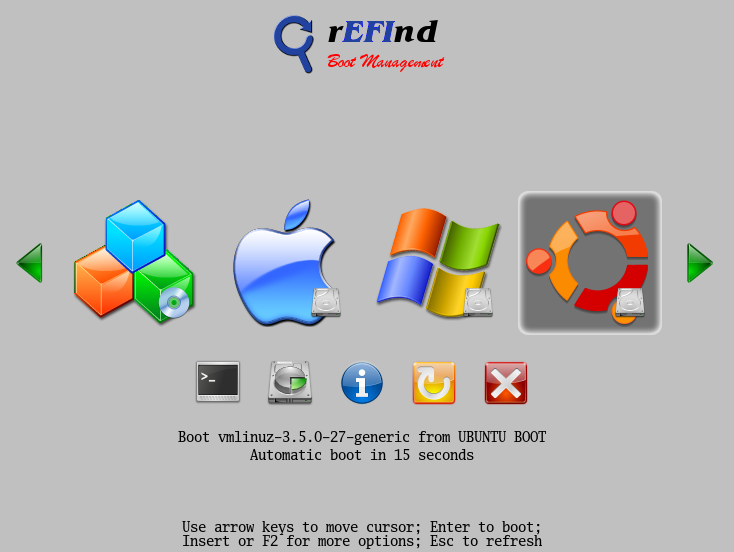
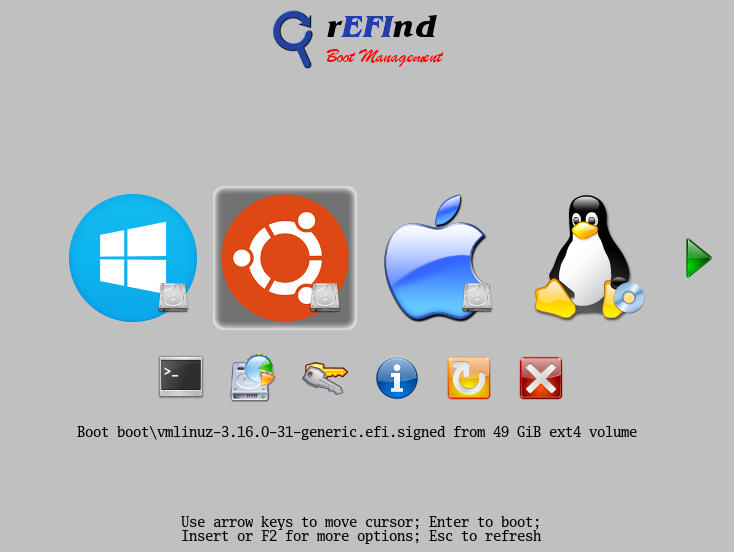
Documentation updates (including two replacement images); removal of pointless (and possibly buggy) definition of SetMem as memset in gptsync.

diff --git a/docs/refind/using.html b/docs/refind/using.html
@@ -15,7 +15,7 @@
 href="mailto:rodsmith@rodsbooks.com">rodsmith@rodsbooks.com</a></p>
 
 <p>Originally written: 3/14/2012; last Web page update:
-2/8/2015, referencing rEFInd 0.8.6</p>
+3/1/2015, referencing rEFInd 0.8.7</p>
 
 
 <p>This Web page is provided free of charge and with no annoying outside ads; however, I did take time to prepare it, and Web hosting does cost money. If you find this Web page useful, please consider making a small donation to help keep this site up and running. Thanks!</p>
@@ -166,17 +166,21 @@ href="mailto:rodsmith@rodsbooks.com">rodsmith@rodsbooks.com</a></p>
     height="552" alt="rEFInd presents a GUI menu for selecting your boot
     OS." border=2 /></center> <br />
 
-<p>If you don't press any key before the timeout (shown below the icons and description line) expires, the default boot loader will launch. This is normally the item that you launched the last time rEFInd ran, but you can adjust the default by editing the configuration file. (In this example, it's the Ubuntu Linux loader, which is further identified by text above the timeout as <i>vmlinuz-3.5.0-27-generic from UBUNTU BOOT</i>.)</p>
+<p>If you don't press a key before the timeout expires, the default boot loader will launch. (The timeout is shown beneath the description line until you press a key&mdash;note that it's absent from the preceding screen shot.) This is normally the item that you launched the last time rEFInd ran, but you can adjust the default by editing the configuration file. (In this example, it's the Ubuntu Linux loader, which is further identified by text as <i>boot\vmlinuz-3.16.0-31-generic.efi.signed from 49 GiB ext4 volume</i>.)</p>
 
-<p>This display is dominated by the central set of OS <i>tags</i> (icons), which in this example includes tags for an unknown boot loader, OS X, Windows, and Ubuntu. All but the first of these are on hard disks, but the unknown boot loader is on an optical disc, as revealed by the small icons (known as <i>badges</i>) in the lower-right corner of the OS icons.</p>
+<p>This display is dominated by the central set of OS <i>tags</i> (icons), which in this example includes tags for Windows, OS X, Ubuntu, and an unknown Linux distribution. All but the last of these are on hard disks, but the unknown Linux boot loader is on an optical disc, as revealed by the small icons (known as <i>badges</i>) in the lower-right corner of the OS icons.</p>
 
-<p>In this example, the Ubuntu tag is selected. You can move the selection left by pressing the left arrow key and right by pressing the right arrow key. If your system has many boot loaders, an arrow icon will appear to the right and/or left of the boot loader list, indicating that the boot loader list will scroll when you move off the edge. (Such arrows are visible to the right and left in the sample screen.) You can scroll the list by one line full of icons by using the Page Up or Page Down keys to move left and right, respectively. Moving past the final selection or using the down arrow key moves the selection to the second row of small tags, which launch ancillary programs or perform special actions. If you've moved the selection cursor to the second row, pressing the up arrow key or scrolling past the left edge of the second row moves the cursor to the top row. In this figure, these five tags are present:</p>
+<p>In this example, the Ubuntu tag is selected. You can move the selection left by pressing the left arrow key and right by pressing the right arrow key. If your system has many boot loaders, an arrow icon will appear to the right and/or left of the boot loader list, indicating that the boot loader list will scroll when you move off the edge. (Such an arrow is visible to the right in the sample screen.) You can scroll the list by one line full of icons by using the Page Up or Page Down keys to move left and right, respectively. Moving past the final selection or using the down arrow key moves the selection to the second row of small tags, which launch ancillary programs or perform special actions. If you've moved the selection cursor to the second row, pressing the up arrow key or scrolling past the left edge of the second row moves the cursor to the top row. In this figure, these six tags are present:</p>
 
 <ul>
 
 <li>Launch the EFI shell</li>
 
-<li>Launch the tool to create a hybrid MBR (<tt>gptsync</tt>)
+<li>Launch the tool to partition a disk (<tt>gptsync</tt> or
+    <tt>gdisk</tt>)</li>
+
+<li>Launch a tool to edit Secure Boot keys (<tt>MokManager</tt>,
+    <tt>HashTool</tt>, or <tt>KeyTool</tt>)
 
 <li>Produce an information page</li>
 
@@ -186,7 +190,7 @@ href="mailto:rodsmith@rodsbooks.com">rodsmith@rodsbooks.com</a></p>
 
 </ul>
 
-<p>By default, the options to display an information page, shutdown the computer, and reboot the computer are present. Options to launch a shell, launch the Apple recovery utility, and launch the Machine Owner Key (MOK) utility will also appear automatically if these utilities are installed. Options to launch the hybrid MBR tool and to exit from rEFInd are not displayed by default; you must edit the configuration file to enable these features, or to disable those that are displayed by default.</p>
+<p>By default, the options to display an information page, shutdown the computer, and reboot the computer are present. Options to launch a shell, launch <tt>gdisk</tt>, launch a memory test utility, launch the Apple recovery utility, launch the Windows recovery utility, and launch a Secure Boot key management utility will also appear automatically if these utilities are installed. The tag to reboot into the firmware appears if your firmware supports this feature. Options to launch the hybrid MBR tool (<tt>gptsync</tt>) and to exit from rEFInd are not displayed by default; you must edit the configuration file to enable these features, or to disable those that are displayed by default if you don't want them.</p>
 
 <p>To launch an OS or utility, you should select its tag and then press the Enter key or the space bar.</p>
 
@@ -194,7 +198,7 @@ href="mailto:rodsmith@rodsbooks.com">rodsmith@rodsbooks.com</a></p>
 
 <p>Ordinarily, rEFInd displays tags for OSes it finds on internal hard disks, external hard disks (including USB flash drives, CF disks, and so on), and optical discs. Sometimes, though, the firmware hasn't had time to fully examine these devices by the time rEFInd starts; or you might only insert or plug in the media after rEFInd appears. In these cases, you can press the Esc key to have rEFInd re-read its configuration file and re-scan your media for boot loaders. This action can take a few seconds to complete, so be patient. You can also use this feature to detect OSes if you launch a shell and use it to load a driver or edit the <tt>refind.conf</tt> file. If you regularly need to press Esc, you might look into the <tt>scan_delay</tt> configuration file option, described on the <a href="configfile.html">Configuring the Boot Manager</a> page.</p>
 
-<p>On some computers, the firmware doesn't mount external USB media unless you adjust a firmware option or use the EFI's own boot manager prior to launching rEFInd. If you don't see external media appear in rEFInd's list, consult your computer's manual or examine its firmware to locate a relevant option.</p>
+<p>On some computers, the firmware doesn't mount external USB media unless you adjust a firmware option or use the EFI's own boot manager prior to launching rEFInd. If you don't see external media appear in rEFInd's list, consult your computer's manual or examine its firmware to locate a relevant option. This option is often called <i>fast boot</i> or something similar; when enabled, the computer doesn't activate most USB devices because doing so takes a second or two.</p>
 
 <a name="boot_options">
 <h2>Adjusting Boot Options</h2>

diff --git a/docs/refind/getting.html b/docs/refind/getting.html
@@ -15,7 +15,7 @@
 href="mailto:rodsmith@rodsbooks.com">rodsmith@rodsbooks.com</a></p>
 
 <p>Originally written: 3/14/2012; last Web page update:
-2/8/2015, referencing rEFInd 0.8.6</p>
+3/1/2015, referencing rEFInd 0.8.7</p>
 
 <p>This Web page is provided free of charge and with no annoying outside ads; however, I did take time to prepare it, and Web hosting does cost money. If you find this Web page useful, please consider making a small donation to help keep this site up and running. Thanks!</p>
 
@@ -136,7 +136,7 @@ href="mailto:rodsmith@rodsbooks.com">rodsmith@rodsbooks.com</a></p>
 <ul>
 
 <li><b><a
-    href="http://sourceforge.net/projects/refind/files/0.8.6/refind-bin-0.8.6.zip/download">A
+    href="http://sourceforge.net/projects/refind/files/0.8.7/refind-bin-0.8.7.zip/download">A
     binary zip file</a></b>&mdash;Download this if you want to install
     rEFInd and/or its filesystem drivers on an <i>x</i>86 or <i>x</i>86-64
     computer and have no need to test rEFInd first by booting it on an
@@ -146,13 +146,13 @@ href="mailto:rodsmith@rodsbooks.com">rodsmith@rodsbooks.com</a></p>
     href="installing.html">Installing rEFInd</a> page. Some users of Arch
     Linux have reported problems booting some specific Arch Linux kernels
     with rEFInd and some other tools. For them, a <a
-    href="http://sourceforge.net/projects/refind/files/0.8.6/refind-bin-gnuefi-0.8.6.zip/download">variant
+    href="http://sourceforge.net/projects/refind/files/0.8.7/refind-bin-gnuefi-0.8.7.zip/download">variant
     package</a> exists in which the <i>x</i>86-64 binary was compiled with
     GNU-EFI rather than the usual TianoCore EDK2. This change helps some
     users with this problem.</li>
 
 <li><b><a
-    href="http://sourceforge.net/projects/refind/files/0.8.6/refind-0.8.6-1.x86_64.rpm/download">A
+    href="http://sourceforge.net/projects/refind/files/0.8.7/refind-0.8.7-1.x86_64.rpm/download">A
     binary RPM file</a></b>&mdash;If you use an RPM-based <i>x</i>86-64
     Linux system such as Fedora or openSUSE, you can install the binary RPM
     package rather than use the binary zip file. (I don't provide an
@@ -161,13 +161,13 @@ href="mailto:rodsmith@rodsbooks.com">rodsmith@rodsbooks.com</a></p>
     rEFInd</a> page) as part of the installation process. Distribution
     maintainers can examine the <tt>refind.spec</tt> file in the source
     package and tweak it to their needs. The <a
-    href="http://sourceforge.net/projects/refind/files/0.8.6/refind-0.8.6-1.src.rpm/download">source
+    href="http://sourceforge.net/projects/refind/files/0.8.7/refind-0.8.7-1.src.rpm/download">source
     RPM file</a> might or might not build on your system as-is; it relies
     on assumptions about the locations of the GNU-EFI development
     files.</li>
 
 <li><b><a
-    href="http://sourceforge.net/projects/refind/files/0.8.6/refind_0.8.6-1_amd64.deb/download">A
+    href="http://sourceforge.net/projects/refind/files/0.8.7/refind_0.8.7-1_amd64.deb/download">A
     binary Debian package</a></b>&mdash;If you use an <i>x</i>86-64 version
     of Debian, Ubuntu, Mint, or another Debian-based distribution, you can
     install from this package, which was converted from the binary RPM
@@ -191,7 +191,7 @@ href="mailto:rodsmith@rodsbooks.com">rodsmith@rodsbooks.com</a></p>
 <p class="sidebar"><b>Note:</b> At the moment, neither the bootable CD-R image file nor the bootable USB flash drive image file supports booting with Secure Boot active. The x86-64 version of the <a href="http://en.altlinux.org/Rescue">ALT Linux Rescue disc</a> uses a Secure Boot-enabled rEFInd, though, so you may find that useful in some situations.</p>
 
 <li><b><a
-    href="http://sourceforge.net/projects/refind/files/0.8.6/refind-cd-0.8.6.zip/download">A
+    href="http://sourceforge.net/projects/refind/files/0.8.7/refind-cd-0.8.7.zip/download">A
     CD-R image file</a></b>&mdash;This download contains the same files as
     the binary zip file, but you can burn it to a CD-R to test rEFInd
     (and its filesystem drivers) without installing it first. (It boots on
@@ -215,14 +215,14 @@ on <tt>/dev/sdd</tt>. This procedure should work even on a BIOS-booted
 computer.</p>
 
 <li><b><a
-    href="http://sourceforge.net/projects/refind/files/0.8.6/refind-flashdrive-0.8.6.zip/download">A
+    href="http://sourceforge.net/projects/refind/files/0.8.7/refind-flashdrive-0.8.7.zip/download">A
     USB flash drive image file</a></b>&mdash;Although you     can create
     your own rEFInd USB flash drive, you may find it easier to download
     this version and copy it to your USB drive with <tt>dd</tt> or some
     other low-level disk copying utility.</li>
 
 <li><b><a
-    href="http://sourceforge.net/projects/refind/files/0.8.6/refind-src-0.8.6.zip/download">A
+    href="http://sourceforge.net/projects/refind/files/0.8.7/refind-src-0.8.7.zip/download">A
     source code zip file</a></b>&mdash;This is useful if you want to compile
     the software locally. Note that I use Linux with the <a
     href="https://sourceforge.net/projects/tianocore/">TianoCore EFI

diff --git a/docs/refind/configfile.html b/docs/refind/configfile.html
@@ -15,7 +15,7 @@
 href="mailto:rodsmith@rodsbooks.com">rodsmith@rodsbooks.com</a></p>
 
 <p>Originally written: 3/14/2012; last Web page update:
-2/8/2015, referencing rEFInd 0.8.6</p>
+3/1/2015, referencing rEFInd 0.8.7</p>
 
 
 <p>This Web page is provided free of charge and with no annoying outside ads; however, I did take time to prepare it, and Web hosting does cost money. If you find this Web page useful, please consider making a small donation to help keep this site up and running. Thanks!</p>
@@ -146,7 +146,7 @@ href="mailto:rodsmith@rodsbooks.com">rodsmith@rodsbooks.com</a></p>
 
 <li class="tight"><a href="#adjusting">Adjusting the Global Configuration</a></li>
 
-<li class="tight"><a href="#stanzas">Creating OS Stanzas</a></li>
+<li class="tight"><a href="#stanzas">Creating Manual Boot Stanzas</a></li>
 
 <li class="tight"><a href="#submenu">Creating Submenu Entries</a></li>
 
@@ -385,12 +385,16 @@ default_selection elilo
 <p>This example sets a timeout of 5 seconds; loads a custom graphic file called <tt>custom.bmp</tt> from the directory in which the rEFInd binary resides; scans the <tt>drivers</tt> and <tt>EFI/tools/drivers</tt> directories for EFI drivers; uses manual boot loader configuration but also scans for external EFI boot loaders and EFI boot loaders on optical discs; and sets the default boot loader to the first loader found that includes the string <tt>elilo</tt>. Of course, since this file specifies use of manual boot loader configuration, it's not complete; you'll need to add at least one OS stanza to be able to boot from anything but an external disk or optical drive, as described shortly.</p>
 
 <a name="stanzas">
-<h2>Creating OS Stanzas</h2>
+<h2>Creating Manual Boot Stanzas</h2>
 </a>
 
-<p>OS stanzas in rEFInd are similar to those in GRUB Legacy, GRUB 2, or ELILO. You can use them to add EFI boot loaders to those that are auto-detected. rEFInd does not yet support manual boot stanzas for BIOS-mode boot loaders. You also cannot modify the auto-detected options; if you just want to tweak one OS's configuration, you have several options, none of which is ideal:</p>
+<p class="sidebar"><b>Note:</b> Don't create manual boot stanzas unless you need to do so! Many people try to create them when rEFInd's auto-detection mechanisms will do the job just as well and with less hassle and chance of error. (Note that you can pass kernel options to a Linux kernel in the <tt>/boot/refind_linux.conf</tt> file; see the <a href="linux.html">Methods of Booting Linux</a> page for details.) Efforts to create manual boot stanzas when auto-detection can do the job just create pointless work for yourself!</p>
+
+<p>Manual boot stanzas in rEFInd are similar to those in GRUB Legacy, GRUB 2, or ELILO. You can use them to add EFI boot loaders to those that are auto-detected. rEFInd does not yet support manual boot stanzas for BIOS-mode boot loaders. You also cannot modify the auto-detected options; if you just want to tweak one OS's configuration, you have several options:</p>
 
 <ul>
+
+<li>You can use the <tt>dont_scan_volumes</tt>, <tt>dont_scan_dirs</tt>, or <tt>dont_scan_files</tt> options in <tt>refind.conf</tt> to hide the tag you want to modify, then create a manual boot stanza to replace it.</li>
 
 <li>You can move or rename the boot loader file for the boot loader you want to tweak.</li>
 
@@ -572,10 +576,10 @@ menuentry Gentoo {
 }
 </pre>
 
-<p>The main menu item for this entry won't look different with the submenus defined than without them; but if you press the Insert key, you'll see the submenu items:</p>
+<p>The main menu item for this entry won't look different with the submenus defined than without them; but if you press the F2 or Insert key, you'll see the submenu items:</p>
 
-    <br /><center><img src="manual-submenu.png" align="center" width="372"
-    height="272" alt="Manually defining submenus enables you to customize
+    <br /><center><img src="manual-submenu.png" align="center" width="403"
+    height="411" alt="Manually defining submenus enables you to customize
     your boot options." border=2></center><br />
 
 <p>The main menu item appears at the top of the list&mdash;<tt>Run bzImage-3.3.0-rc7</tt> in this example. The three submenus defined in this example's configuration file appear next, enabling you to launch in single-user mode, run the 3.3.0 release kernel, or boot via ELILO, respectively. Submenus also include an item called <tt>Return to Main Menu</tt> that does just as it says. (Alternatively, you can return to the main menu by pressing the Esc key.)</p>

diff --git a/docs/refind/revisions.html b/docs/refind/revisions.html
@@ -14,7 +14,7 @@
 <p class="subhead">by Roderick W. Smith, <a
 href="mailto:rodsmith@rodsbooks.com">rodsmith@rodsbooks.com</a></p>
 
-<p>Last Web page update: 2/8/2015</p>
+<p>Last Web page update: 3/1/2015</p>
 
 <p>This Web page is provided free of charge and with no annoying outside ads; however, I did take time to prepare it, and Web hosting does cost money. If you find this Web page useful, please consider making a small donation to help keep this site up and running. Thanks!</p>
 
@@ -129,6 +129,8 @@ href="mailto:rodsmith@rodsbooks.com">rodsmith@rodsbooks.com</a></p>
 <p>The following summarizes changes in rEFInd's public releases:</p>
 
 <ul>
+
+<li><b>0.8.7 (3/1/2015)</b>&mdash;This release provides bug fixes and refinements to existing features. Several changes should reduce the odds of rEFInd crashing because of assorted problems. Other changes improve Secure Boot handling, including improved Secure Boot detection in <tt>install.sh</tt>, recognition of <tt>KeyTool.efi</tt> and <tt>KeyTool-signed.efi</tt> as MOK manager utilities, and reporting of Secure Boot status for <i>x</i>86 (IA-32) systems in the rEFInd information screen. Filesystem detection is improved (again), and XFS has been added as a known filesystem. Detection of FreeBSD's BIOS-mode boot loader is improved, which should give more Mac users the right OS icon when booting FreeBSD in BIOS mode. Finally, I'm <i><b>deprecating</b></i> the use of <tt>fs<tt class="variable">x</tt>:</tt> notation for referring to filesystems. The numbering of filesystems is simply unreliable, and better alternatives (the use of partition GUIDs, partition names, and filesystem names) have been added in previous releases. The <tt>fs<tt class="variable">x</tt>:</tt> code remains in rEFInd, and if it's working for you, you can continue to use it; but sooner or later I'll remove that code, so you're advised to change your manual boot stanzas and other options that use it before that happens.</li>
 
 <li><b>0.8.6 (2/8/2015)</b>&mdash;Most (but not all) of this release's changes focus on Windows dual-booting and Mac-specific issues. There's a new Windows 8 icon, which is now used by default as the Windows icon, although the old icon remains available and is used for Windows XP and earlier boots on Macs. If the NTFS driver is loaded, rEFInd will now exclude non-bootable NTFS volumes from the Mac boot list (this change does not affect UEFI-based PCs). A bug that caused misidentification of whole disks and NTFS volumes as being FAT has been fixed (again, this problem affected Macs, not PCs). A couple of Mac-specific <tt>install.sh</tt> bugs have been fixed, resulting in more reliable identification of the ESP and of the installation directory. Previous versions ignored a volume name of "HFS+ volume" because that name was produced by earlier versions of the rEFInd HFS+ driver for all HFS+ volumes; but the current HFS+ driver produces a real volume name, so I've removed that special case from the code. I've removed the r472 rEFIt commit, introduced in 0.8.5, because it was causing some BMP files to fail to load. Finally, the <tt>hideui</tt> token in <tt>refind.conf</tt> now accepts a value of <tt>badges</tt>, which has the effect of hiding the disk-type badges associated with OS launch icons.</li>
 

diff --git a/docs/refind/installing.html b/docs/refind/installing.html
@@ -15,7 +15,7 @@
 href="mailto:rodsmith@rodsbooks.com">rodsmith@rodsbooks.com</a></p>
 
 <p>Originally written: 3/14/2012; last Web page update:
-2/8/2015, referencing rEFInd 0.8.6</p>
+3/1/2015, referencing rEFInd 0.8.7</p>
 
 
 <p>This Web page is provided free of charge and with no annoying outside ads; however, I did take time to prepare it, and Web hosting does cost money. If you find this Web page useful, please consider making a small donation to help keep this site up and running. Thanks!</p>
@@ -224,11 +224,11 @@ href="mailto:rodsmith@rodsbooks.com">rodsmith@rodsbooks.com</a></p>
 
 <p>I provide RPM and Debian package files for rEFInd; and starting with version 0.8.1, I'm maintaining an Ubuntu PPA for rEFInd. If you have a working RPM-based or Debian-based Linux installation that boots in EFI mode, using one of these files is likely to be the easiest way to install rEFInd: You need only download the file and issue an appropriate installation command. In some cases, double-clicking the package in your file manager will install it. If that doesn't work, a command like the following will install the RPM on an RPM-based system:</p>
 
-<pre class="listing"># <tt class="userinput">rpm -Uvh refind-0.8.4-1.x86_64.rpm</tt></pre>
+<pre class="listing"># <tt class="userinput">rpm -Uvh refind-0.8.7-1.x86_64.rpm</tt></pre>
 
 <p>On a Debian-based system, the equivalent command is:</p>
 
-<pre class="listing"># <tt class="userinput">dpkg -i refind_0.8.4-1_amd64.deb</tt></pre>
+<pre class="listing"># <tt class="userinput">dpkg -i refind_0.8.7-1_amd64.deb</tt></pre>
 
 <p>Either command produces output similar to that described for <a href="#installsh">using the <tt>install.sh</tt> script,</a> so you can check it for error messages and other signs of trouble. The package file installs rEFInd and registers it with the EFI to be the default boot loader. The script that runs as part of the installation process tries to determine if you're using Secure Boot, and if so it will try to configure rEFInd to launch using shim; however, this won't work correctly on all systems. Ubuntu 12.10 users who are booting with Secure Boot active should be wary, since the resulting installation will probably try to use Ubuntu's version of shim, which won't work correctly with rEFInd. The shim program provided with more recent versions of Ubuntu should work correctly.</p>
 

diff --git a/docs/refind/secureboot.html b/docs/refind/secureboot.html
@@ -15,7 +15,7 @@
 href="mailto:rodsmith@rodsbooks.com">rodsmith@rodsbooks.com</a></p>
 
 <p>Originally written: 11/13/2012; last Web page update:
-2/16/2015, referencing rEFInd 0.8.6</p>
+3/1/2015, referencing rEFInd 0.8.7</p>
 
 
 <p>This Web page is provided free of charge and with no annoying outside ads; however, I did take time to prepare it, and Web hosting does cost money. If you find this Web page useful, please consider making a small donation to help keep this site up and running. Thanks!</p>
@@ -128,7 +128,7 @@ href="mailto:rodsmith@rodsbooks.com">rodsmith@rodsbooks.com</a></p>
 
 <hr />
 
-<p class="sidebar"><b>Note:</b> My <a href="http://www.rodsbooks.com/efi-bootloaders/">Managing EFI Boot Loaders for Linux</a> Web page includes a much more detailed description of Secure Boot in its <a href="http://www.rodsbooks.com/efi-bootloaders/secureboot.html">Dealing with Secure Boot</a> sub-page. You should consult this page if you want to disable Secure Boot, generate your own keys, or perform other such tasks.</p>
+<p class="sidebar"><b>Note:</b> My <a href="http://www.rodsbooks.com/efi-bootloaders/">Managing EFI Boot Loaders for Linux</a> Web page includes a much more detailed description of Secure Boot in two of its subpages. Consult <a href="http://www.rodsbooks.com/efi-bootloaders/secureboot.html">Dealing with Secure Boot</a> for more information on disabling Secure Boot, using Shim, and using PreLoader; and read <a href="http://www.rodsbooks.com/efi-bootloaders/controlling-sb.html">Controlling Secure Boot</a> for more information on using your own keys instead of or in addition to those that came with your computer.</p>
 
 <div class="navbar">
 

diff --git a/docs/refind/bootmode.html b/docs/refind/bootmode.html
@@ -15,7 +15,7 @@
 href="mailto:rodsmith@rodsbooks.com">rodsmith@rodsbooks.com</a></p>
 
 <p>Originally written: 3/14/2012; last Web page update:
-2/8/2015, referencing rEFInd 0.8.6</p>
+3/1/2015, referencing rEFInd 0.8.7</p>
 
 
 <p>This Web page is provided free of charge and with no annoying outside ads; however, I did take time to prepare it, and Web hosting does cost money. If you find this Web page useful, please consider making a small donation to help keep this site up and running. Thanks!</p>

diff --git a/docs/refind/drivers.html b/docs/refind/drivers.html
@@ -15,7 +15,7 @@
 href="mailto:rodsmith@rodsbooks.com">rodsmith@rodsbooks.com</a></p>
 
 <p>Originally written: 4/19/2012; last Web page update:
-2/8/2015, referencing rEFInd 0.8.6</p>
+3/1/2015, referencing rEFInd 0.8.7</p>
 
 
 <p>This Web page is provided free of charge and with no annoying outside ads; however, I did take time to prepare it, and Web hosting does cost money. If you find this Web page useful, please consider making a small donation to help keep this site up and running. Thanks!</p>

diff --git a/docs/refind/features.html b/docs/refind/features.html
@@ -15,7 +15,7 @@
 href="mailto:rodsmith@rodsbooks.com">rodsmith@rodsbooks.com</a></p>
 
 <p>Originally written: 3/14/2012; last Web page update:
-2/8/2015, referencing rEFInd 0.8.6</p>
+3/1/2015, referencing rEFInd 0.8.7</p>
 
 <p>This Web page is provided free of charge and with no annoying outside ads; however, I did take time to prepare it, and Web hosting does cost money. If you find this Web page useful, please consider making a small donation to help keep this site up and running. Thanks!</p>
 

diff --git a/docs/refind/index.html b/docs/refind/index.html
@@ -15,7 +15,7 @@
 href="mailto:rodsmith@rodsbooks.com">rodsmith@rodsbooks.com</a></p>
 
 <p>Originally written: 3/14/2012; last Web page update:
-2/8/2015, referencing rEFInd 0.8.6</p>
+3/1/2015, referencing rEFInd 0.8.7</p>
 
 
 <p>This Web page is provided free of charge and with no annoying outside ads; however, I did take time to prepare it, and Web hosting does cost money. If you find this Web page useful, please consider making a small donation to help keep this site up and running. Thanks!</p>

diff --git a/docs/refind/linux.html b/docs/refind/linux.html
@@ -15,7 +15,7 @@
 href="mailto:rodsmith@rodsbooks.com">rodsmith@rodsbooks.com</a></p>
 
 <p>Originally written: 3/19/2012; last Web page update:
-2/8/2015, referencing rEFInd 0.8.6</p>
+3/1/2015, referencing rEFInd 0.8.7</p>
 
 
 <p>This Web page is provided free of charge and with no annoying outside ads; however, I did take time to prepare it, and Web hosting does cost money. If you find this Web page useful, please consider making a small donation to help keep this site up and running. Thanks!</p>

diff --git a/docs/refind/themes.html b/docs/refind/themes.html
@@ -15,7 +15,7 @@
 href="mailto:rodsmith@rodsbooks.com">rodsmith@rodsbooks.com</a></p>
 
 <p>Originally written: 4/19/2012; last Web page update:
-2/8/2015, referencing rEFInd 0.8.6</p>
+3/1/2015, referencing rEFInd 0.8.7</p>
 
 
 <p>This Web page is provided free of charge and with no annoying outside ads; however, I did take time to prepare it, and Web hosting does cost money. If you find this Web page useful, please consider making a small donation to help keep this site up and running. Thanks!</p>
